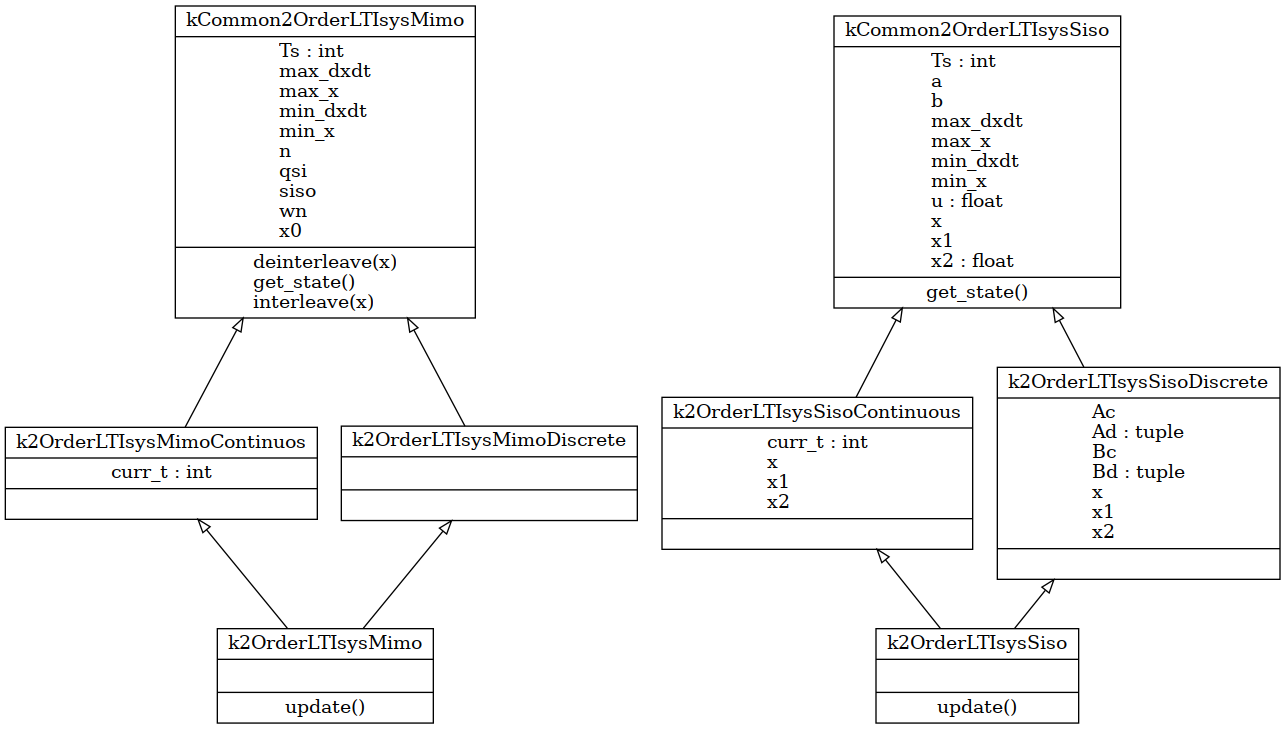
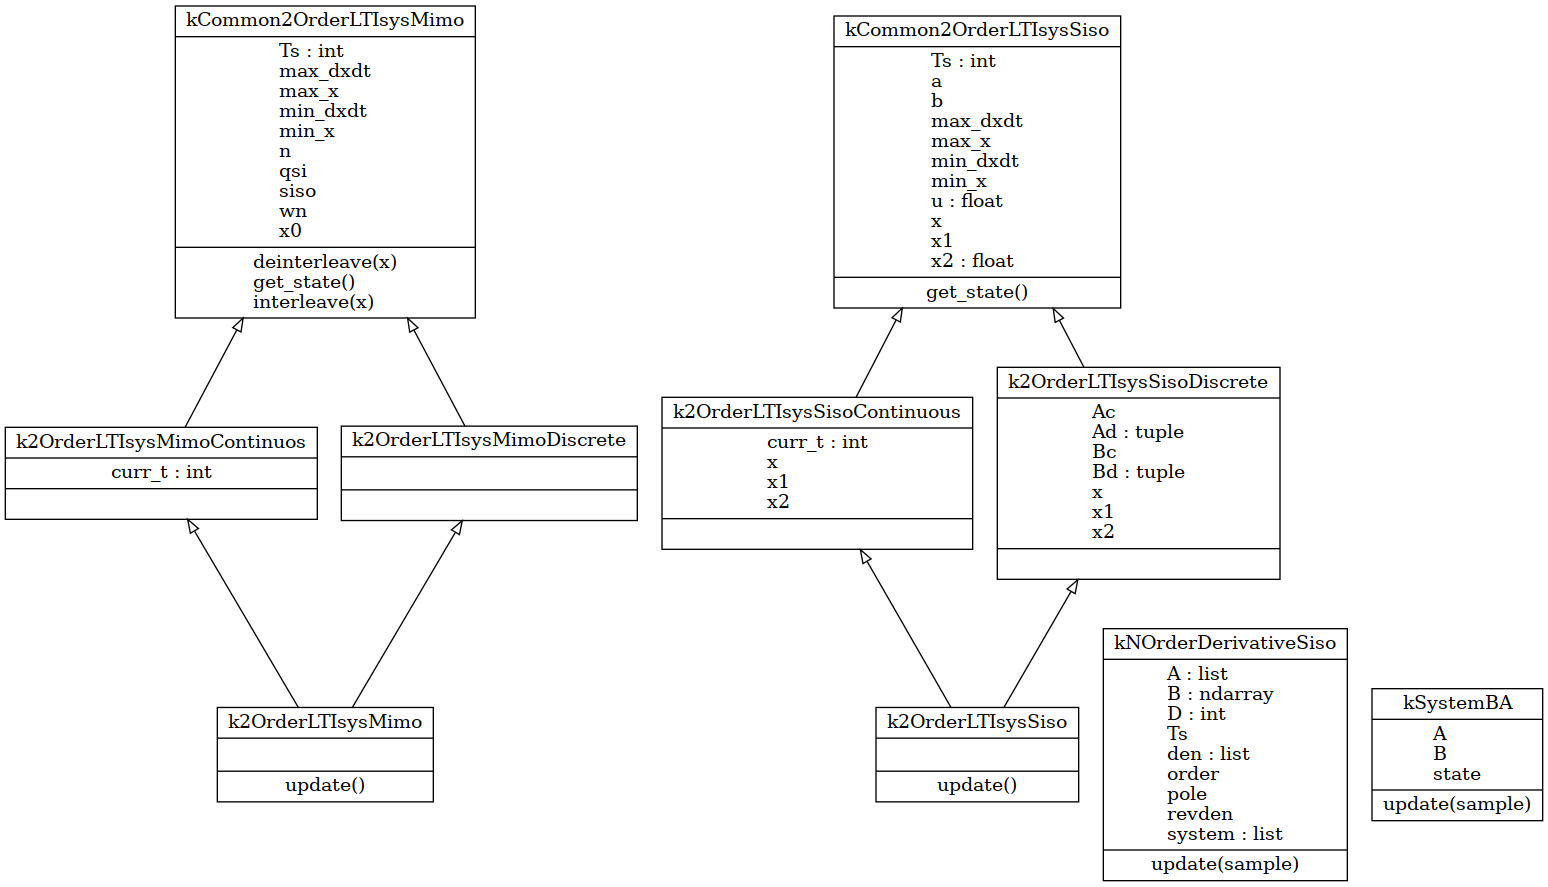
documentation updates

diff --git a/README.md b/README.md
@@ -25,6 +25,13 @@
             systems:](#to-update-the-systems-1)
         -   [<span class="toc-section-number">2.2.4</span> to get the
             current state:](#to-get-the-current-state-1)
+    -   [<span class="toc-section-number">2.3</span>
+        kNOrderDerivativeSiso](#knorderderivativesiso)
+        -   [<span class="toc-section-number">2.3.1</span> to create a
+            system (filter):](#to-create-a-system-filter)
+        -   [<span class="toc-section-number">2.3.2</span> to update the
+            inputs and get new
+            outputs:](#to-update-the-inputs-and-get-new-outputs)
 -   [<span class="toc-section-number">3</span> How to use](#how-to-use)
 
 # Introduction
@@ -122,8 +129,25 @@ There is one object of the filter as SISO, and another as MIMO.
 
         out, dout_dt = lti.get_state()
 
+## kNOrderDerivativeSiso
+
+### to create a system (filter):
+
+        order =    4 # when we want y, y', y", y'", y""
+        pole  = -100 # fast and stable
+        Ts    =  0.1 # [s]
+        obj   = kNOrderDerivativeSiso( order, pole, Ts )
+
+### to update the inputs and get new outputs:
+
+        out     = obj.update(0.7)
+        y       = out[0]
+        dydt    = out[1]
+        ...
+        d4y/dt4 = out[4]
+
 # How to use
 
         import sys
         sys.path.append(< up to where folder kltisystems is >)
-        from kltisystems import k2OrderLTIsysSiso, k2OrderLTIsysMimo
+        from kltisystems import k2OrderLTIsysSiso, k2OrderLTIsysMimo, kNOrderDerivativeSiso
